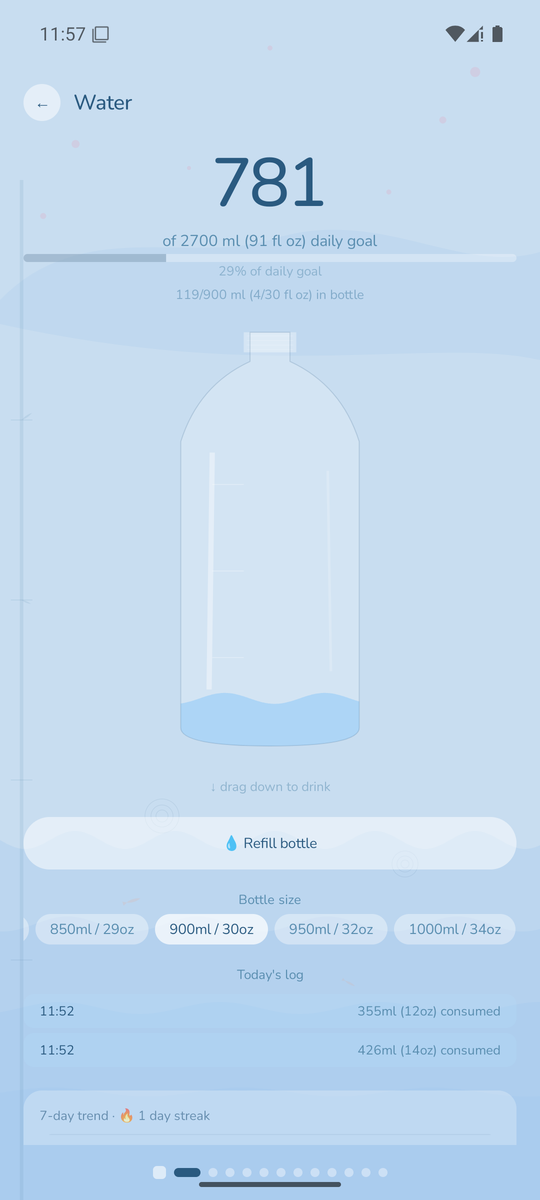
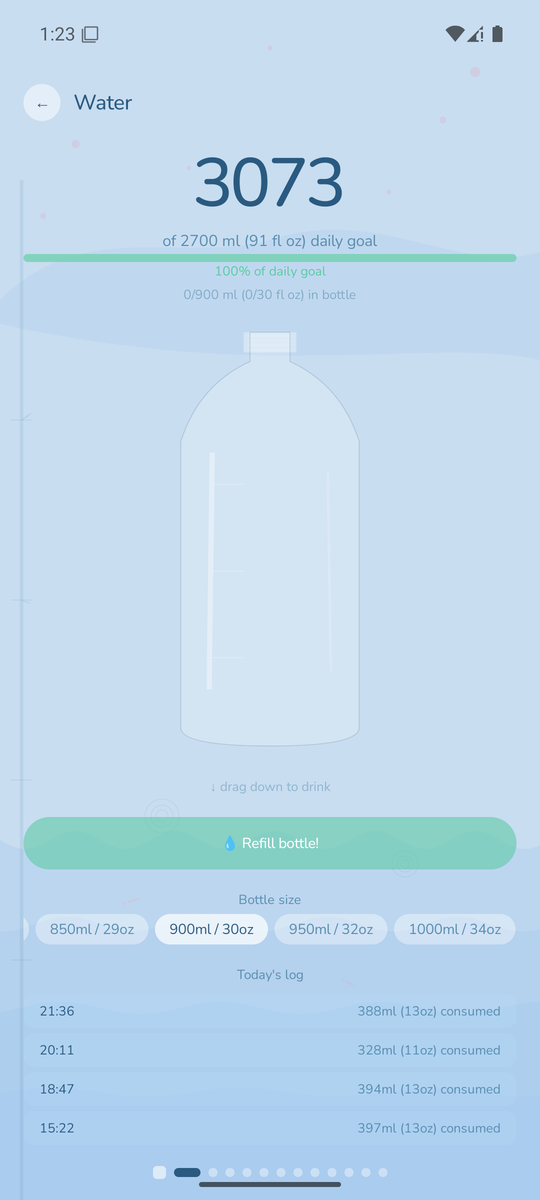
docs: seed realistic history and reshoot every screenshot
Adds an AI Insights screenshot to the README, which needed real history behind
it: 812 entries across 63 days were generated and pushed through the
authenticated sync protocol (zero rejected by the entry validator), then pulled
to the emulator with a clean install — 819 received.

Every screenshot is re-taken against that data. The dashboards now show streaks
and real totals instead of empty cards, the heatmap has nine weeks of activity,
and Water/Sleep/Emotions/Hobbies all show populated 7-day trends. Adds the
celebration overlay and a sync panel reporting the real transfer.

The Insights shot is a genuine local generation: Qwen3-4B loaded from
%LOCALAPPDATA% on CUDA and wrote a weekly portrait citing specific dates,
sessions and people from the seeded entries.

Live pairing codes and LAN addresses are redacted in all six affected images.

diff --git a/README.md b/README.md
@@ -15,11 +15,11 @@
 </p>
 
 <p align="center">
-  <img src="docs/images/android-dashboard.png" alt="Dashboard showing twelve category cards" width="19%">
-  <img src="docs/images/android-water.png" alt="Water screen with a draggable bottle" width="19%">
+  <img src="docs/images/android-dashboard.png" alt="Dashboard showing twelve category cards with streaks" width="19%">
+  <img src="docs/images/android-water.png" alt="Water screen: 3073 ml against a 2700 ml goal" width="19%">
   <img src="docs/images/android-hobbies.png" alt="Hobbies screen: a bowl filling with origami cranes" width="19%">
-  <img src="docs/images/android-emotions.png" alt="Emotions screen with the day's emotional flow" width="19%">
-  <img src="docs/images/android-sync.png" alt="Sync panel with the pairing code field" width="19%">
+  <img src="docs/images/android-emotions.png" alt="Emotions screen with the day's emotional flow and a 7-day trend" width="19%">
+  <img src="docs/images/android-sleep.png" alt="Sleep screen with duration, quality score and a 7-day trend" width="19%">
 </p>
 
 ---
@@ -105,6 +105,13 @@ Only entries changed since the last successful sync are sent, in batches, so a l
 mean a huge transfer. If mDNS discovery fails — some networks block multicast — type the PC's
 address in manually.
 
+<p align="center">
+  <img src="docs/images/android-sync.png" alt="The phone's sync panel: paired, and reporting 819 entries received" width="30%">
+  &nbsp;&nbsp;
+  <img src="docs/images/android-celebrate.png" alt="A celebration overlay when the daily water goal is met" width="30%">
+</p>
+<p align="center"><sub>Left: a first sync pulling nine weeks of history. Right: what hitting a daily goal looks like.</sub></p>
+
 ### Be clear about what the pairing code does
 
 It is **access control, not encryption.** It stops other devices on your network from reading or
@@ -152,12 +159,23 @@ system per category.
 
 ---
 
-## Screenshots
+## The desktop hub
 
 <p align="center">
-  <img src="docs/images/desktop.png" alt="The desktop app: sidebar, category cards, activity heatmap and pairing code" width="90%">
+  <img src="docs/images/desktop.png" alt="The desktop app: sidebar, category cards and a 52-week activity heatmap" width="90%">
 </p>
-<p align="center"><sub>The desktop hub. The pairing code lives bottom-left in the sidebar.</sub></p>
+<p align="center"><sub>Today at a glance, with a year of activity below it. The pairing code lives bottom-left.</sub></p>
+
+### Insights, written locally
+
+Ask a question about your own data, or generate a weekly portrait, a pattern search, or a monthly
+deep dive. The model reads your entries from the local database and runs on your GPU — nothing is
+uploaded, and the app works exactly the same with the network off.
+
+<p align="center">
+  <img src="docs/images/desktop-insights.png" alt="The Insights page showing an AI-written weekly portrait generated from the local database" width="90%">
+</p>
+<p align="center"><sub>A weekly portrait generated from nine weeks of entries by Qwen3-4B running on-device.</sub></p>
 
 ---
 
